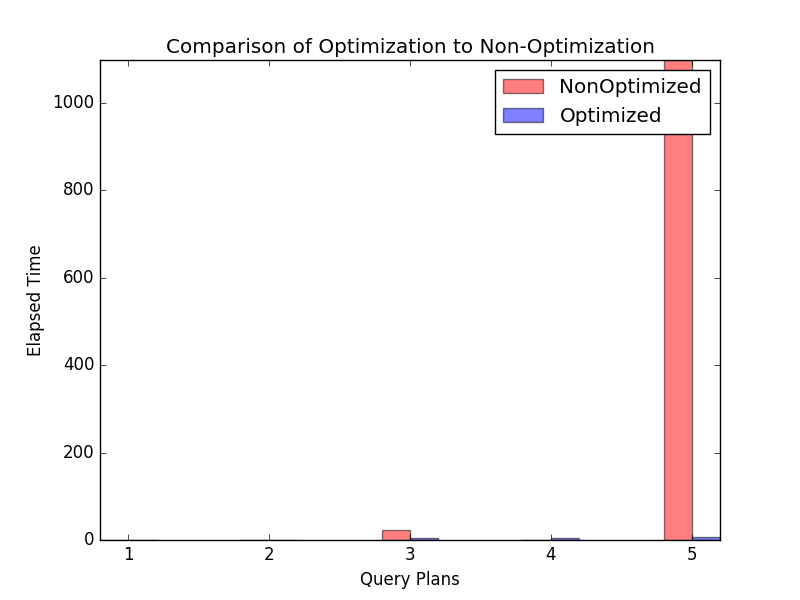
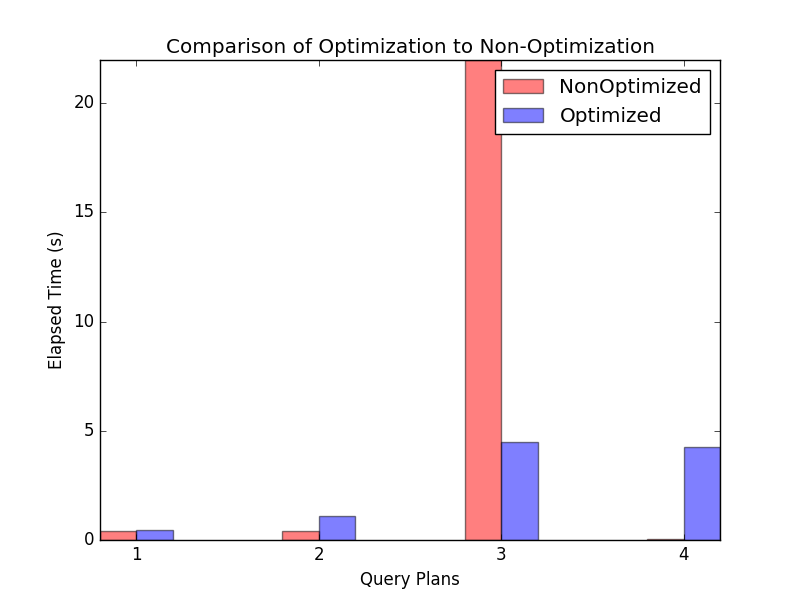
Graphs changed

diff --git a/hw3/Plot.py b/hw3/Plot.py
@@ -1,7 +1,7 @@
 import matplotlib.pyplot as plt
 import numpy as np
 plt.xlabel('Query Plans')
-plt.ylabel('Elapsed Time')
+plt.ylabel('Elapsed Time (s)')
 plt.title('Comparison of Optimization to Non-Optimization')
 '''
 query1
@@ -25,10 +25,10 @@ Execution time: 1097.5430915355682
 query5 Optimized
 Execution time: 7.205395698547363
 '''
-queries = ('1', '2', '3', '4')#,'5')
+queries = ('1', '2', '3', '4','5')
 y_pos = np.arange(len(queries))
-performance = [0.43109703063964844,0.3919703960418701,21.9739191532135,0.038863182067871094]#,1097.5430915355682]
-performance2 = [0.44269347190856934,1.1067113876342773,4.479973077774048,4.2490010261535645]#,7.205395698547363]
+performance = [0.43109703063964844,0.3919703960418701,21.9739191532135,0.038863182067871094,1097.5430915355682]
+performance2 = [0.44269347190856934,1.1067113876342773,4.479973077774048,4.2490010261535645,7.205395698547363]
 
 
 
